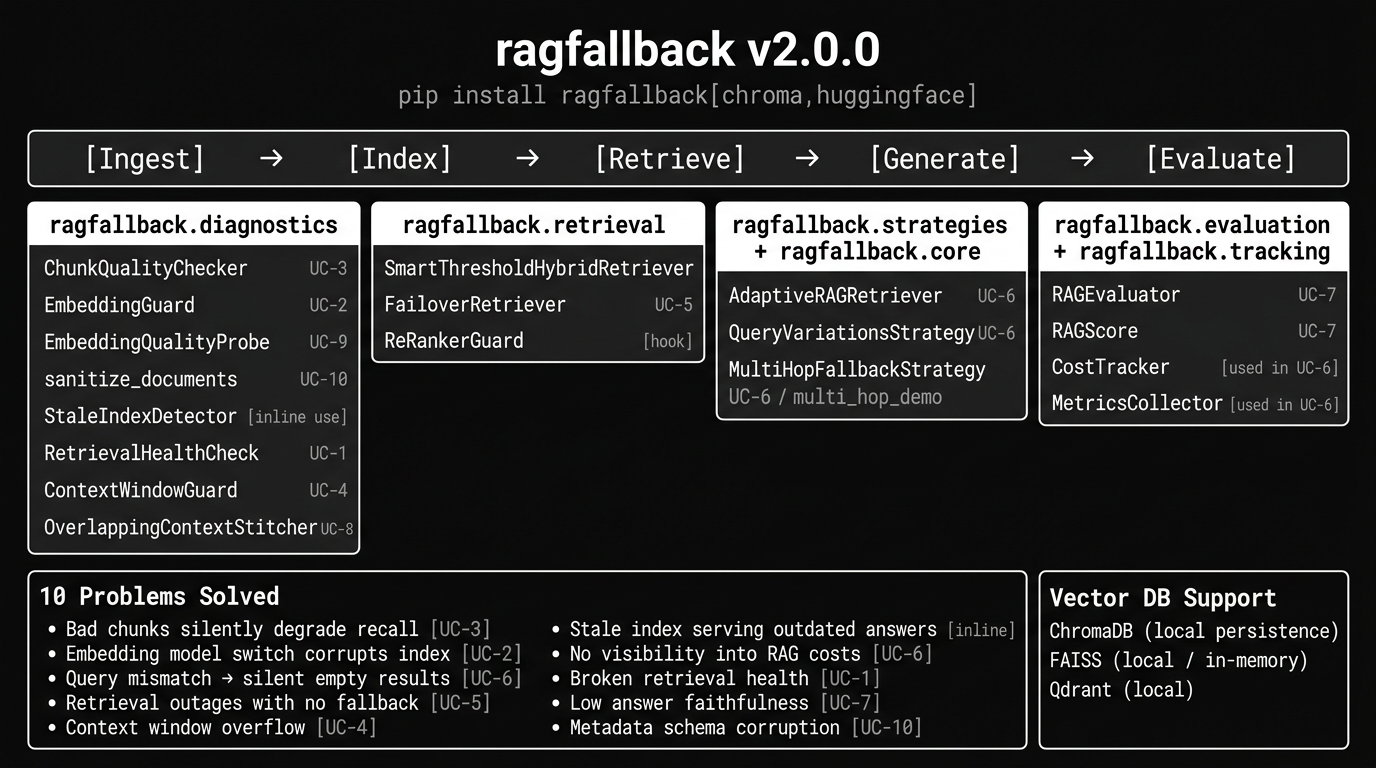
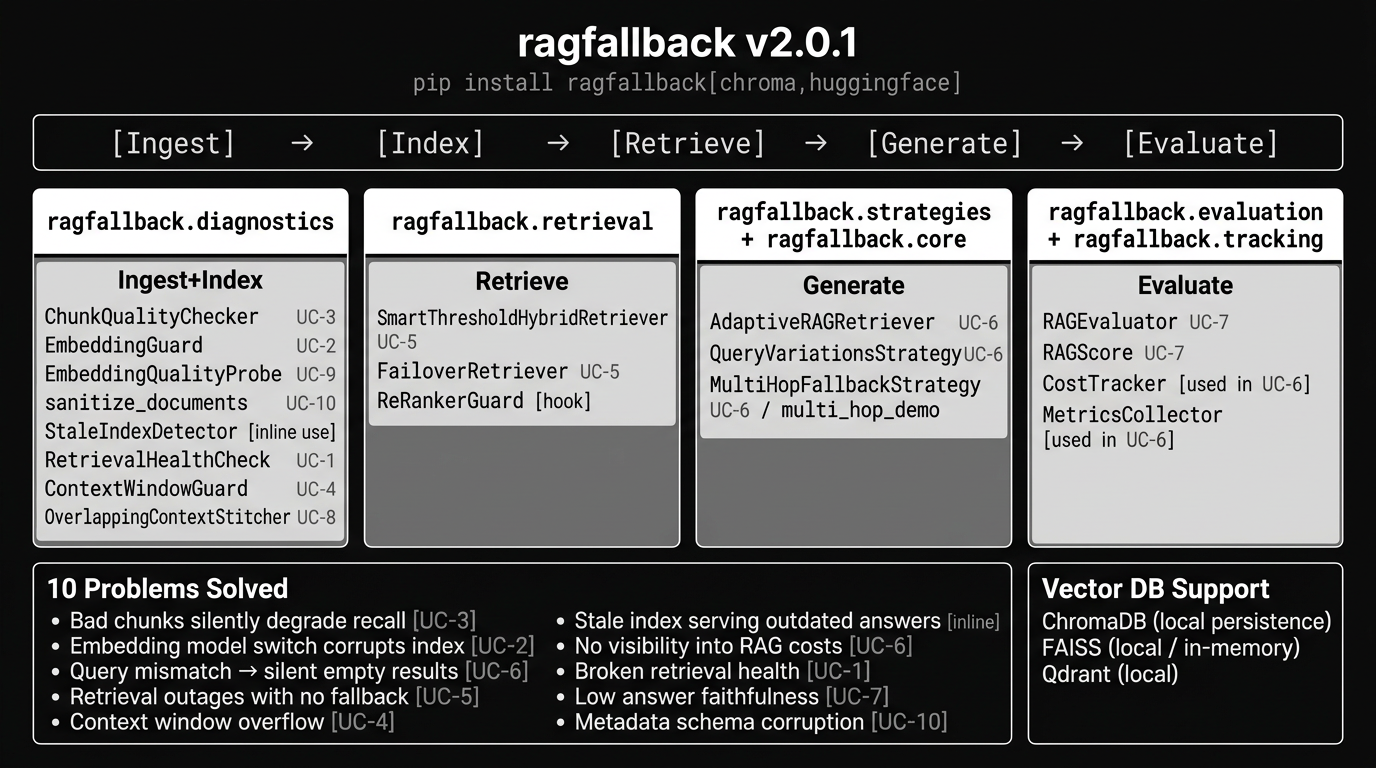
release: update version to v2.0.1 across setup.py, verify_library, changelog, arch spec and diagram

diff --git a/verify_library.py b/verify_library.py
@@ -171,8 +171,8 @@ def _test_example_syntax():
 def _test_version():
     import ragfallback
 
-    assert ragfallback.__version__ == "2.0.0", (
-        f"Expected '2.0.0', got '{ragfallback.__version__}'"
+    assert ragfallback.__version__ == "2.0.1", (
+        f"Expected '2.0.1', got '{ragfallback.__version__}'"
     )
     print(f"       version={ragfallback.__version__}")
 
@@ -190,7 +190,7 @@ check("ragfallback.evaluation (RAGEvaluator.evaluate() returns RAGScore with ove
 check("ragfallback.tracking (CostTracker.record_tokens, MetricsCollector.record_success)", _test_tracking)
 check("Factory + embeddings (create_open_source_embeddings → dim 384)", _test_embeddings)
 check("Example files syntax (compile all examples/*.py)", _test_example_syntax)
-check("Version == '2.0.0'", _test_version)
+check("Version == '2.0.1'", _test_version)
 
 print("=" * 70)
 passed = sum(1 for _, ok, _ in results if ok)

diff --git a/setup.py b/setup.py
@@ -6,7 +6,7 @@ with open("README.md", "r", encoding="utf-8") as fh:
 
 setup(
     name="ragfallback",
-    version="2.0.0",
+    version="2.0.1",
     author="Irfan Ali",
     author_email="irfanali29@hotmail.com",
     description="ragfallback — reliability layers for RAG: diagnostics, fallbacks, evaluation",

diff --git a/CHANGELOG.md b/CHANGELOG.md
@@ -7,6 +7,13 @@ and this project adheres to [Semantic Versioning](https://semver.org/spec/v2.0.0
 
 ## [Unreleased]
 
+## [2.0.1] - 2026-03-22
+
+### Fixed
+- Replace deprecated `get_relevant_documents()` with `invoke()` across library source, examples, and tests — fixes compatibility with LangChain 0.2+.
+- Prefer `langchain-huggingface` over deprecated `langchain-community` embeddings import; falls back gracefully on older installs.
+- Probe HuggingFace and Ollama LLMs in the test fixture before returning them, so CI skips cleanly instead of failing when no LLM is reachable.
+
 ## [2.0.0] - 2026-03-21
 
 ### Breaking

diff --git a/docs/architecture_diagram_spec.md b/docs/architecture_diagram_spec.md
@@ -52,4 +52,4 @@ Modules:
 pip install ragfallback[chroma,huggingface]
 
 ## Version
-v2.0.0
+v2.0.1
